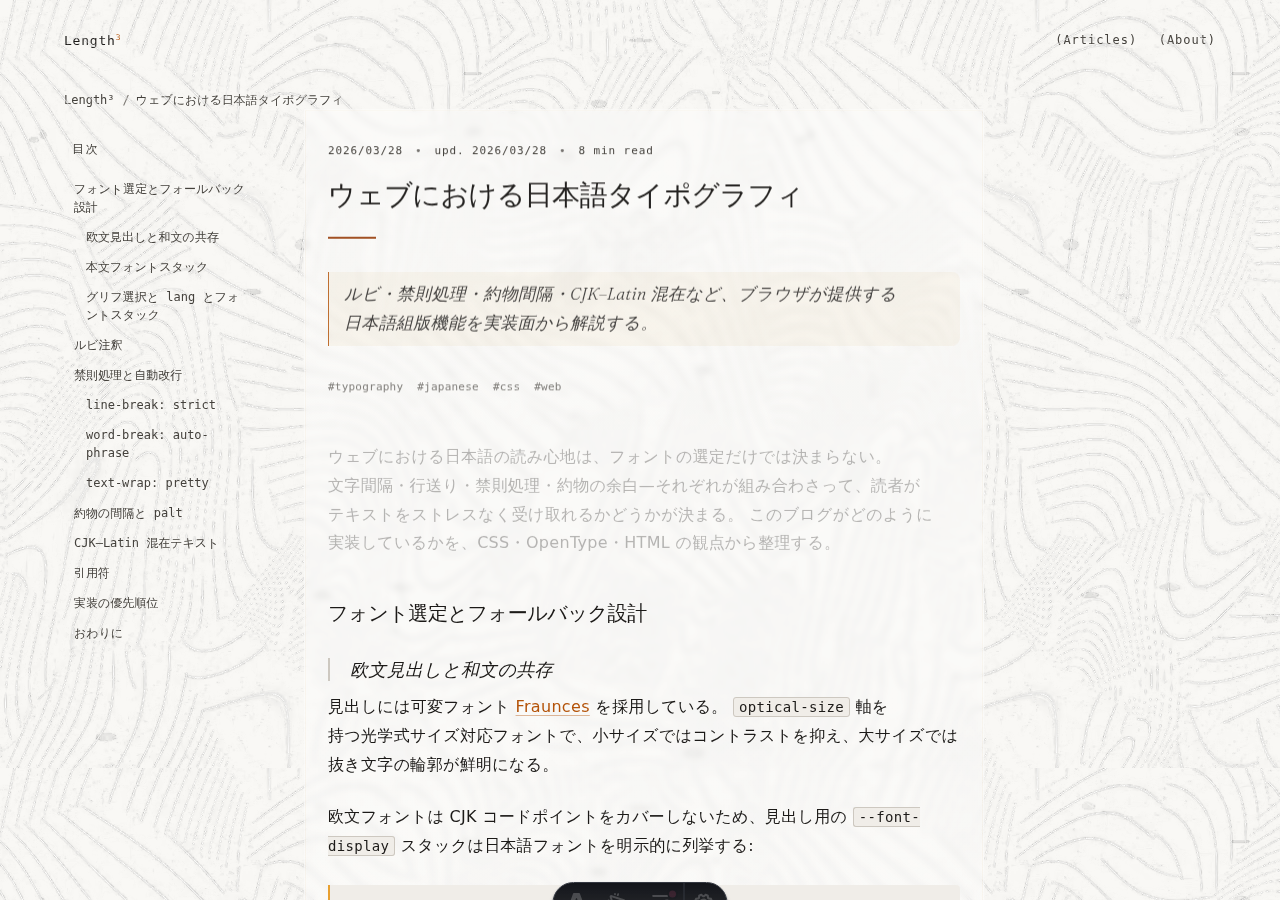
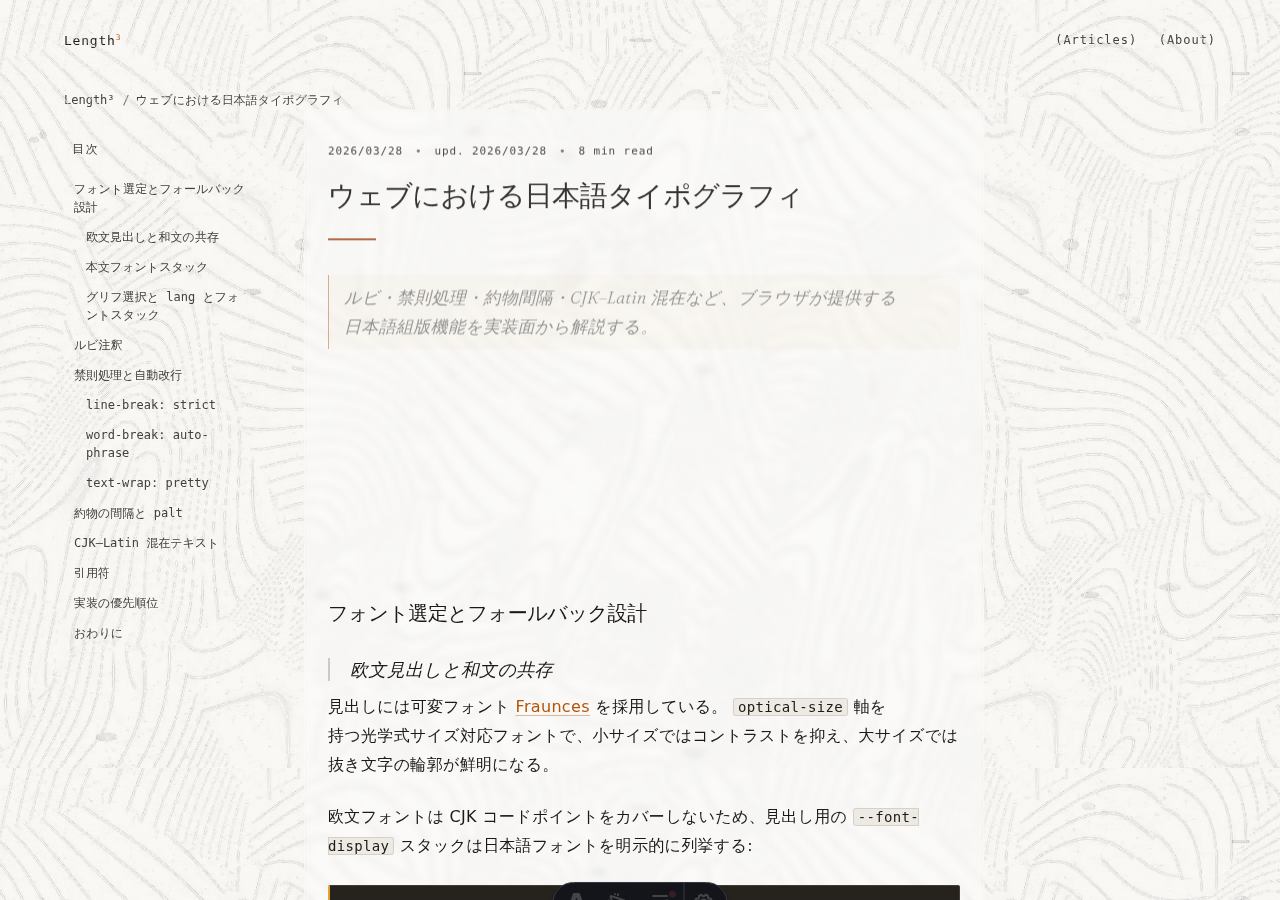
Set code on a dark slab and turn on syntax highlighting
コードまわりの面と色を作り直す。等高線テクスチャと --bg はそのまま。

面:

- ブロックコードの地を --bg-2 (#f0ede8) から炭 (#26231f) にした。--bg との
  差は 1.06:1 しかなく、面として認識される前に本文に溶けていた。黒ではなく
  濃い灰で、色相は本文の墨 (--ink) と揃えてあるのでページの色温度は動かない
  （紙に対して 14.7:1）。輪郭は 1px の縁ときっぱり切り、影もぼかしも置かない
- インラインコードは明るいまま、枠だけ外した。和文の段落では 1 語ごとの矩形が
  数珠つなぎになって行が読めなくなる。地色と 1px の inset だけで示す
- 行送りを 1.75 → 1.65、字送りを 0.875rem → 0.8125rem に詰めた

ハイライト:

- syntaxHighlight を false から shiki にして、専用テーマを足した
  (src/config/code-theme.ts)。既製の高彩度テーマではなく amber を軸にした
  muted なセット（琥珀・セージ・テラコッタ・羊皮紙・ダスティラベンダー）で、
  すべて面に対して 4.5:1 以上（実測 4.71〜10.60）
- Shiki は pre にも色をインラインで書くので、transformer で pre の style
  だけ落としてトークン側（span）の色は残す。面の色は tokens.css が持つ

横スクロール:

- 列より広いコードは、続きのある側だけに明かりが出る。覆い 2 枚を local、
  明かり 2 枚を scroll で重ねた背景で、端まで送ると覆いが明かりを隠す。
  JS なし、スクロールできないブロックでは最初から出ない

spec §3/§4 のコード関連を実装に合わせて書き直した。「コードブロックに暗い地は
使わない」は、実際には地が薄すぎてブロックが目印にならなかったので撤回する。
インラインは従来どおり明るいまま（別の物なので別に扱う）。

pnpm lint / check / test:unit (102 tests) / e2e (6 passed) / build 通過。
docs のスクリーンショットは再生成した。

Claude-Session: https://claude.ai/code/session_01LaSeo7pCYsjGAyx8PCnChu

diff --git a/src/config/code-theme.ts b/src/config/code-theme.ts
@@ -1,0 +1,107 @@
+/**
+ * Shiki theme for code blocks.
+ *
+ * ページは温かい紙 (--bg #f9f8f5) の上に等高線テクスチャが乗っている。
+ * コードだけは同じ色温度の炭 (#211e1b) を敷いて、紙に置いた活字の版のように
+ * 見せる。色相は本文の墨 (--ink #1c1a18) と揃えてあるので、暗い面が増えても
+ * ページの色温度は変わらない。
+ *
+ * トークン色は amber を軸にした muted なセット（琥珀・セージ・テラコッタ・
+ * 羊皮紙・ダスティラベンダー）で、彩度の高い既製テーマのような騒がしさを
+ * 避けている。すべて #26231f に対して 4.5:1 以上（実測 4.71〜10.60）。
+ *
+ * ここの値は src/styles/tokens.css の --code-* と対になっている。片方だけ
+ * 変えると、ハイライトされないコード（言語指定なしのフェンス）とずれる。
+ */
+
+const surface = '#26231f'; // 炭 — --code-bg
+const fg = '#d9d4cb'; // 地の文字 — --code-fg
+const dim = '#948c81'; // コメント — --code-dim
+const operator = '#9c948a'; // 記号・区切り
+const amber = '#e8a030'; // キーワード・タグ (--amber-lt)
+const sage = '#a3b18a'; // 文字列
+const terracotta = '#cf8a72'; // 数値・定数
+const parchment = '#e6d3a3'; // 関数名
+const lavender = '#b9a5c9'; // 型・クラス
+
+export const codeTheme = {
+  name: 'length3-ink',
+  type: 'dark' as const,
+  colors: {
+    'editor.background': surface,
+    'editor.foreground': fg,
+  },
+  settings: [
+    { settings: { background: surface, foreground: fg } },
+    {
+      scope: ['comment', 'punctuation.definition.comment', 'string.comment'],
+      settings: { foreground: dim, fontStyle: 'italic' },
+    },
+    {
+      scope: ['string', 'string.quoted', 'markup.inline.raw', 'markup.raw'],
+      settings: { foreground: sage },
+    },
+    {
+      scope: ['constant.character.escape', 'string.regexp'],
+      settings: { foreground: terracotta },
+    },
+    {
+      scope: ['constant.numeric', 'constant.language', 'constant.other', 'support.constant'],
+      settings: { foreground: terracotta },
+    },
+    {
+      scope: ['keyword', 'storage', 'storage.type', 'storage.modifier', 'keyword.control'],
+      settings: { foreground: amber },
+    },
+    {
+      scope: ['keyword.operator', 'punctuation', 'meta.brace', 'punctuation.separator'],
+      settings: { foreground: operator },
+    },
+    {
+      scope: ['entity.name.function', 'support.function', 'meta.function-call.generic'],
+      settings: { foreground: parchment },
+    },
+    {
+      scope: [
+        'entity.name.type',
+        'entity.name.class',
+        'entity.name.namespace',
+        'support.type',
+        'support.class',
+      ],
+      settings: { foreground: lavender },
+    },
+    {
+      scope: ['entity.name.tag', 'punctuation.definition.tag'],
+      settings: { foreground: amber },
+    },
+    {
+      scope: ['entity.other.attribute-name'],
+      settings: { foreground: sage },
+    },
+    {
+      scope: ['variable', 'variable.other', 'support.variable', 'meta.object-literal.key'],
+      settings: { foreground: fg },
+    },
+    {
+      scope: ['variable.parameter', 'meta.definition.variable'],
+      settings: { foreground: fg },
+    },
+    {
+      scope: ['markup.heading', 'entity.name.section'],
+      settings: { foreground: parchment, fontStyle: 'bold' },
+    },
+    {
+      scope: ['markup.italic'],
+      settings: { fontStyle: 'italic' },
+    },
+    {
+      scope: ['markup.bold'],
+      settings: { fontStyle: 'bold' },
+    },
+    {
+      scope: ['invalid', 'invalid.illegal'],
+      settings: { foreground: terracotta },
+    },
+  ],
+};

diff --git a/src/styles/typography.css b/src/styles/typography.css
@@ -138,35 +138,71 @@
 }
 
 /* ─── Code ───────────────────────────────────────────────────── */
-/* Inline code — spec §4 */
+/* インラインコードは本文の行の中に留まる。1 語ごとに枠を描くと、和文の段落で
+   矩形が数珠つなぎになって行が読めなくなるので、枠は捨てて地色だけで示す。
+   暗くしないのも同じ理由で、行の途中に黒い塊を落とすと視線が引っかかる。 */
 .prose code {
   font-family: var(--font-mono);
   font-size: 0.875em;           /* spec §2 */
-  background: var(--bg-2);
+  background: var(--code-inline-bg);
   padding: 0.0625rem 0.3125rem;
   border-radius: var(--radius-sm);
-  border: 0.0625rem solid var(--rule);
+  box-shadow: inset 0 0 0 0.0625rem var(--code-inline-edge);
   color: var(--ink);
 }
 
-/* Block code — spec §4: light background, amber-lt left border */
+/* ブロックコードは炭の面。紙に活字の版を置いたように、輪郭は 1px で
+   きっぱり切り、影もぼかしも付けない。
+
+   背景は 4 枚重ねの「スクロールシャドウ」。上 2 枚（覆い）は local で内容と
+   一緒に流れ、下 2 枚（明かり）は scroll で面に固定される。端まで送ると
+   覆いが明かりに重なって消えるので、横に続きがあるかどうかが JS なしで判る。 */
 .prose pre {
-  background: var(--bg-2);
+  background-color: var(--code-bg);
+  background-image:
+    linear-gradient(to right, var(--code-bg) 55%, rgba(38, 35, 31, 0)),
+    linear-gradient(to left, var(--code-bg) 55%, rgba(38, 35, 31, 0)),
+    linear-gradient(to right, var(--code-glow), rgba(217, 212, 203, 0)),
+    linear-gradient(to left, var(--code-glow), rgba(217, 212, 203, 0));
+  background-position: left center, right center, left center, right center;
+  background-size: 1.75rem 100%, 1.75rem 100%, 0.625rem 100%, 0.625rem 100%;
+  background-repeat: no-repeat;
+  background-attachment: local, local, scroll, scroll;
+  border: 0.0625rem solid var(--code-edge);
   border-left: 0.125rem solid var(--amber-lt);
-  border-radius: 0 var(--radius-md) var(--radius-md) 0;
-  padding: 1rem 1.25rem;
+  border-radius: var(--radius-xs);
+  padding: 1.25rem;
   overflow-x: auto;
+  overscroll-behavior-x: contain;
   margin-bottom: 1.5rem;
+  color: var(--code-fg);
+  /* 暗い面の上に明るい既定のスクロールバーが出ると、面の縁が濁る。 */
+  scrollbar-width: thin;
+  scrollbar-color: var(--code-edge) transparent;
+  /* 白地から炭へ落ちる境目を鋭く保つ。 */
+  -webkit-font-smoothing: antialiased;
 }
 
 .prose pre code {
   background: none;
-  border: none;
   padding: 0;
-  font-size: 0.875rem;         /* spec §4 */
-  color: var(--ink-2);
-  line-height: 1.75;           /* spec §4 */
+  font-size: 0.8125rem;
+  color: inherit;
+  /* 1.75 は炭の面では空きすぎる。行を詰めてコード側の密度を上げる。 */
+  line-height: 1.65;
   border-radius: 0;
+  box-shadow: none;
+}
+
+/* Shiki は行を <span class="line"> で包む。行単位の背景を持たせないと
+   横スクロール時に選択範囲が行末で切れる。 */
+.prose pre code .line {
+  display: inline-block;
+  min-width: 100%;
+}
+
+.prose pre ::selection {
+  background: rgba(232, 160, 48, 0.28);
 }
 
 /* ─── Blockquote ─────────────────────────────────────────────── */

diff --git a/astro.config.ts b/astro.config.ts
@@ -1,7 +1,26 @@
 import cloudflare from '@astrojs/cloudflare';
 import mdx from '@astrojs/mdx';
 import { defineConfig, sessionDrivers } from 'astro/config';
+import { codeTheme } from './src/config/code-theme';
 import segmentedPagefind from './src/integrations/segmented-pagefind';
+
+/**
+ * Shiki は <pre> に背景色と前景色をインラインで書き込む。面の色は
+ * tokens.css の --code-* で持ちたいので、pre の style だけ落としてトークンの
+ * 色（span 側）は残す。
+ */
+const shikiConfig = {
+  theme: codeTheme,
+  wrap: false,
+  transformers: [
+    {
+      name: 'length3:strip-pre-style',
+      pre(node: { properties: Record<string, unknown> }) {
+        delete node.properties['style'];
+      },
+    },
+  ],
+};
 
 export default defineConfig({
   site: 'https://length3.com',
@@ -13,7 +32,8 @@ export default defineConfig({
 
   integrations: [
     mdx({
-      syntaxHighlight: false,
+      syntaxHighlight: 'shiki',
+      shikiConfig,
       optimize: true,
       gfm: true,
       smartypants: false,
@@ -22,7 +42,8 @@ export default defineConfig({
   ],
 
   markdown: {
-    syntaxHighlight: false,
+    syntaxHighlight: 'shiki',
+    shikiConfig,
     remarkPlugins: [],
     rehypePlugins: [],
   },

diff --git a/src/styles/tokens.css b/src/styles/tokens.css
@@ -20,6 +20,17 @@
   --surface-fill-strong: rgba(240, 237, 232, 0.78);
   --surface-border: rgba(110, 97, 80, 0.52);
   --surface-separator: rgba(55, 52, 47, 0.68);
+  /* Code — 紙の上に置いた活字の版。色相は --ink と同じ暖色で、
+     ページの色温度を変えずに硬い面をつくる。値は src/config/code-theme.ts
+     （Shiki テーマ）と対。片方だけ動かすと言語指定なしのコードとずれる。 */
+  --code-bg: #26231f;        /* 黒ではなく濃い灰。紙に対して 14.7:1 */
+  --code-edge: #413b34;      /* 面の縁。パキッと切れた輪郭を 1px でつくる */
+  --code-fg: #d9d4cb;        /* 地の文字 — 10.6:1 */
+  --code-dim: #948c81;       /* コメント — 4.7:1 */
+  --code-glow: rgba(217, 212, 203, 0.22); /* 横スクロールの端に出る明かり */
+  --code-inline-bg: #edeae4; /* インラインは本文の流れに残すので明るいまま */
+  --code-inline-edge: rgba(110, 97, 80, 0.18);
+
   /* Surfaces & shadows */
   --overlay-bg: rgba(28, 26, 24, 0.6);
   --shadow-card: 0 0.5rem 2rem rgba(0, 0, 0, 0.15);

diff --git a/docs/specs/ui-spec.md b/docs/specs/ui-spec.md
@@ -159,7 +159,10 @@ Rules and dividers only. The contrast against BG is deliberately subtle — a ru
 Page background. Warm off-white, not pure `#fff`. Reduces glare in extended reading sessions.
 
 **BG-2** `#f0ede8`
-Secondary surface: inline code backgrounds, code blocks, sidebar. The difference from BG is perceptible but minimal — enough to register as "this is a different surface" without creating a visual event.
+Secondary surface: table headers, sidebar. The difference from BG is perceptible but minimal — enough to register as "this is a different surface" without creating a visual event. Code no longer uses it; see §4.
+
+**Code surface** `#26231f`
+The only dark surface on the page. A warm dark gray sharing the Ink hue, so a page full of code blocks does not shift the page's colour temperature. Contrast against BG: **14.7:1**. Used for block code only — never for inline code, buttons, or panels.
 
 ### Contrast Compliance
 
@@ -238,11 +241,15 @@ Located in the left column. `position: sticky; top: 32px`.
 
 ### Code Blocks
 
-**Inline code:** BG-2 background, `border: 1px solid var(--rule)`, `border-radius: 3px`, `padding: 1px 5px`, JetBrains Mono 0.88em, Ink.
+**Inline code:** `--code-inline-bg` (`#edeae4`) background, `border-radius: 3px`, `padding: 1px 5px`, JetBrains Mono 0.88em, Ink. No border — inline code sits inside a running line, and a drawn box on every occurrence turns a Japanese paragraph into a string of rectangles. The tint alone marks it, and a 1px inset shadow gives the tint an edge without a stroke.
 
-**Block code:** BG-2 background. `border-left: 2px solid #e8a030` (amber-lt). `border-radius: 0 4px 4px 0`. `padding: 16px 20px`. JetBrains Mono 0.84rem, Ink-2, `line-height: 1.75`.
+**Block code:** `--code-bg` (`#26231f`) background — a warm dark gray at the same hue as Ink, not black. `border: 1px solid --code-edge`, `border-left: 2px solid #e8a030` (amber-lt), `border-radius: 2px`, `padding: 20px`. JetBrains Mono 0.8125rem, `--code-fg` (`#d9d4cb`), `line-height: 1.65`.
 
-**Code blocks do not use dark backgrounds.** A dark code block on a light page creates a visual hole that ruptures the reading flow. The reader's eye must recalibrate brightness when entering and leaving the block. The left amber border is sufficient to signal "this is code" without breaking the page's tonal continuity.
+**Block code is a dark surface; inline code is not.** The two are different objects. A block is a figure the reader stops on — set as a slab, it separates from the prose the way a plate separates from body text in print, and the sharp 1px edge is what makes it read as an object rather than a wash. Inline code is not an object; it belongs to the sentence, so it stays light. Earlier revisions of this document prohibited dark blocks on the grounds that they rupture reading flow; in practice the near-invisible BG-2 wash (a 1.06:1 step from the page) failed to mark the block at all.
+
+**Syntax highlighting** is on, via Shiki with a project theme (`src/config/code-theme.ts`). The token palette is amber, sage, terracotta, parchment, and dusty lavender — muted, warm, and keyed to the page accent rather than a stock high-saturation theme. Every token colour clears 4.5:1 against `--code-bg`. The theme's surface values are duplicated in `--code-*` (tokens.css) because Shiki writes token colours inline while the surface comes from CSS; the two must be changed together.
+
+**Horizontal overflow is signalled without JavaScript.** A block wider than its column shows a light edge on the side that has more content, built from four background layers — two covers attached `local`, two glows attached `scroll`. Scrolling to an end slides the cover over the glow and the signal disappears.
 
 **Language labels are not displayed.** The content of the code block identifies its language. A label stating `typescript` above TypeScript code provides zero additional information.
 
